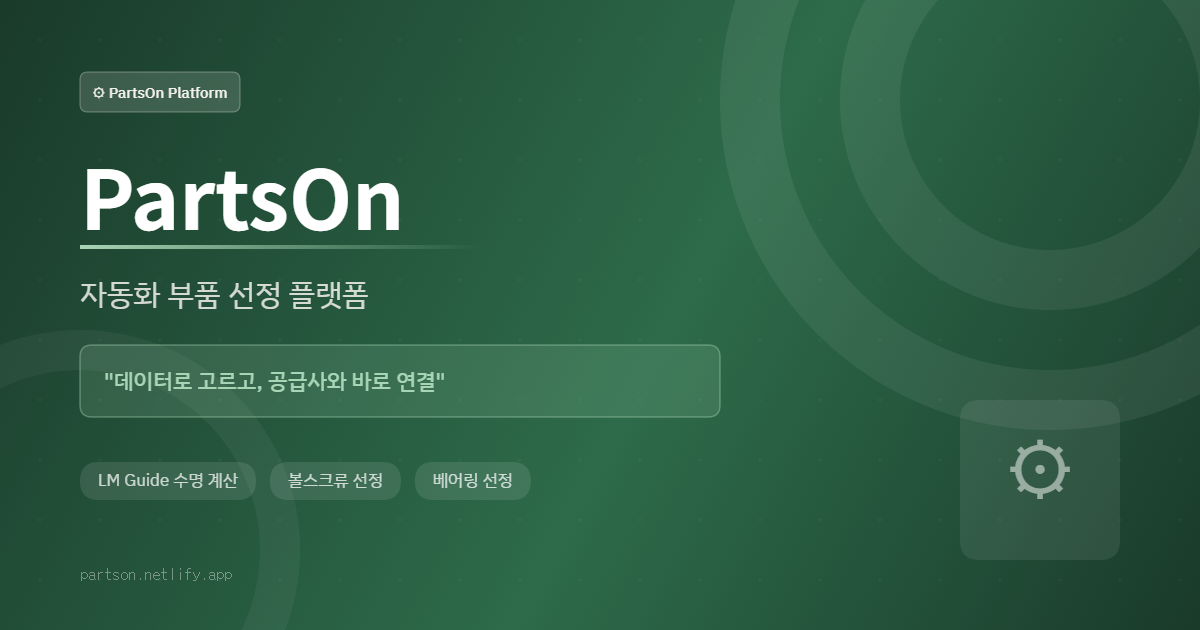
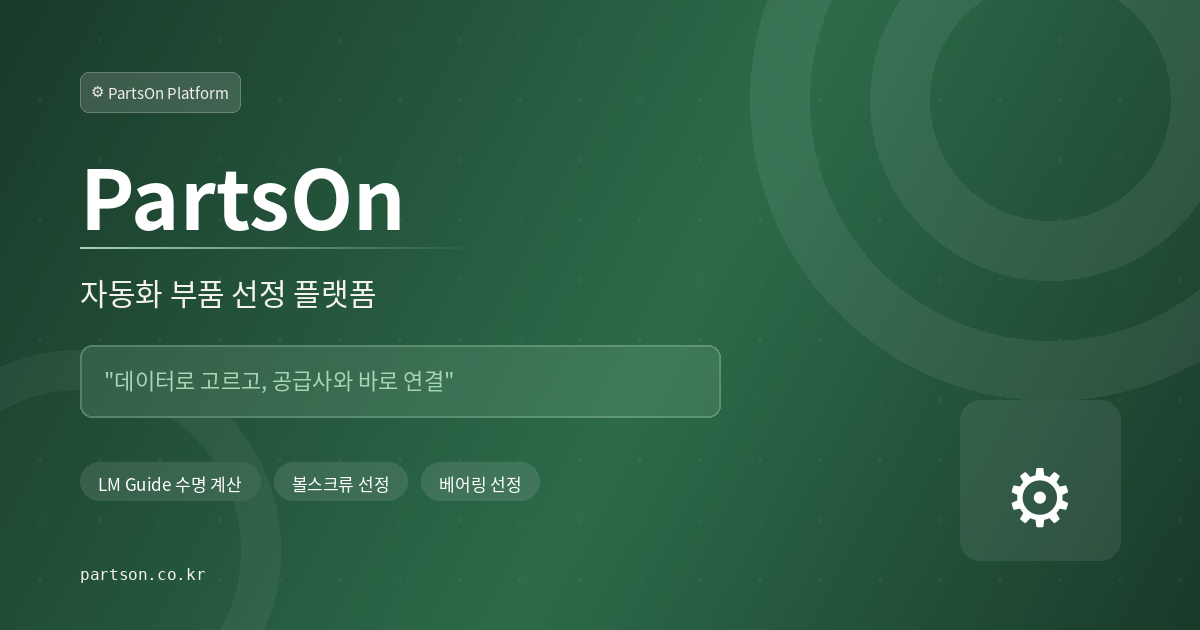
OG 이미지 도메인 partson.co.kr로 교체

diff --git a/make-og-image.html b/make-og-image.html
@@ -138,7 +138,7 @@
       ctx.fillStyle = 'rgba(244,242,237,0.4)';
       ctx.font = "400 16px 'IBM Plex Mono', monospace";
       ctx.textAlign = 'left';
-      ctx.fillText('partson.netlify.app', 80, 580);
+      ctx.fillText('partson.co.kr', 80, 580);
 
       // ── 우측 하단 아이콘 영역 ──
       // 기어 아이콘 대신 텍스트 심볼
